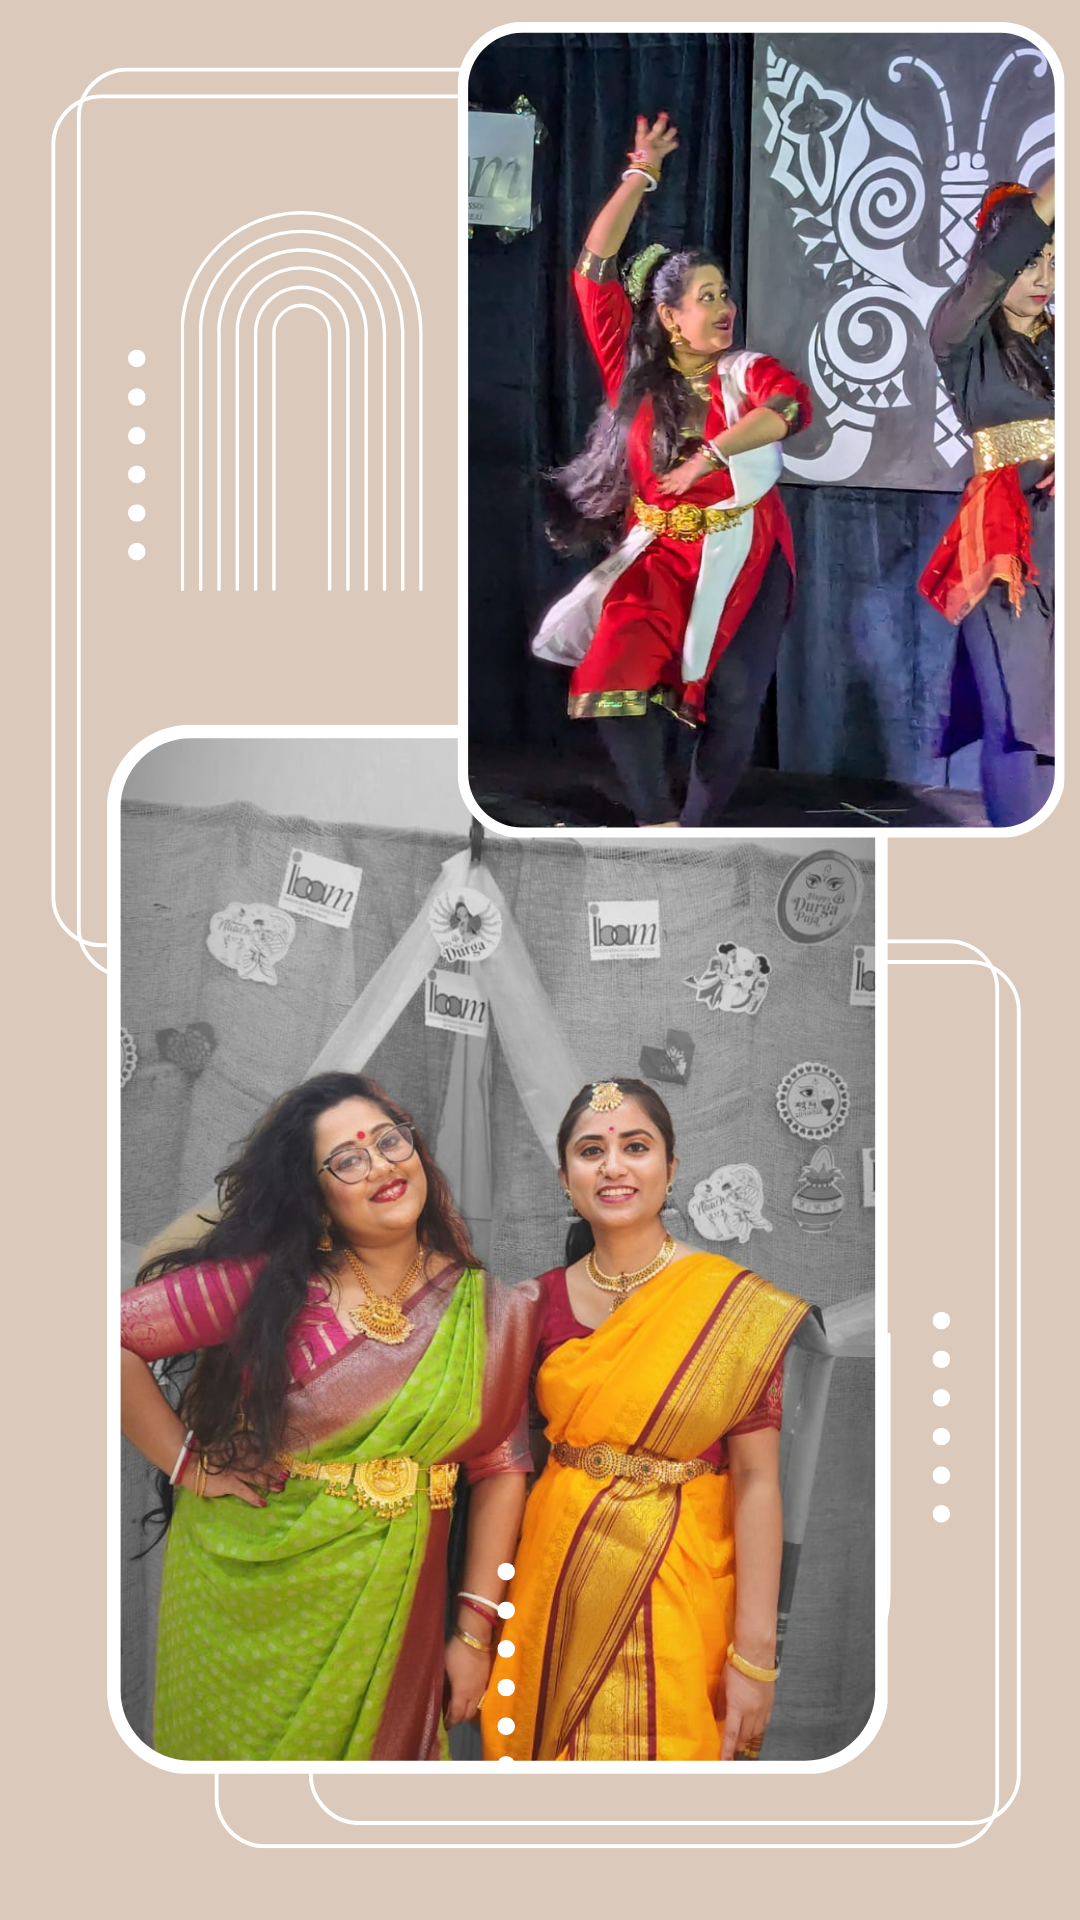
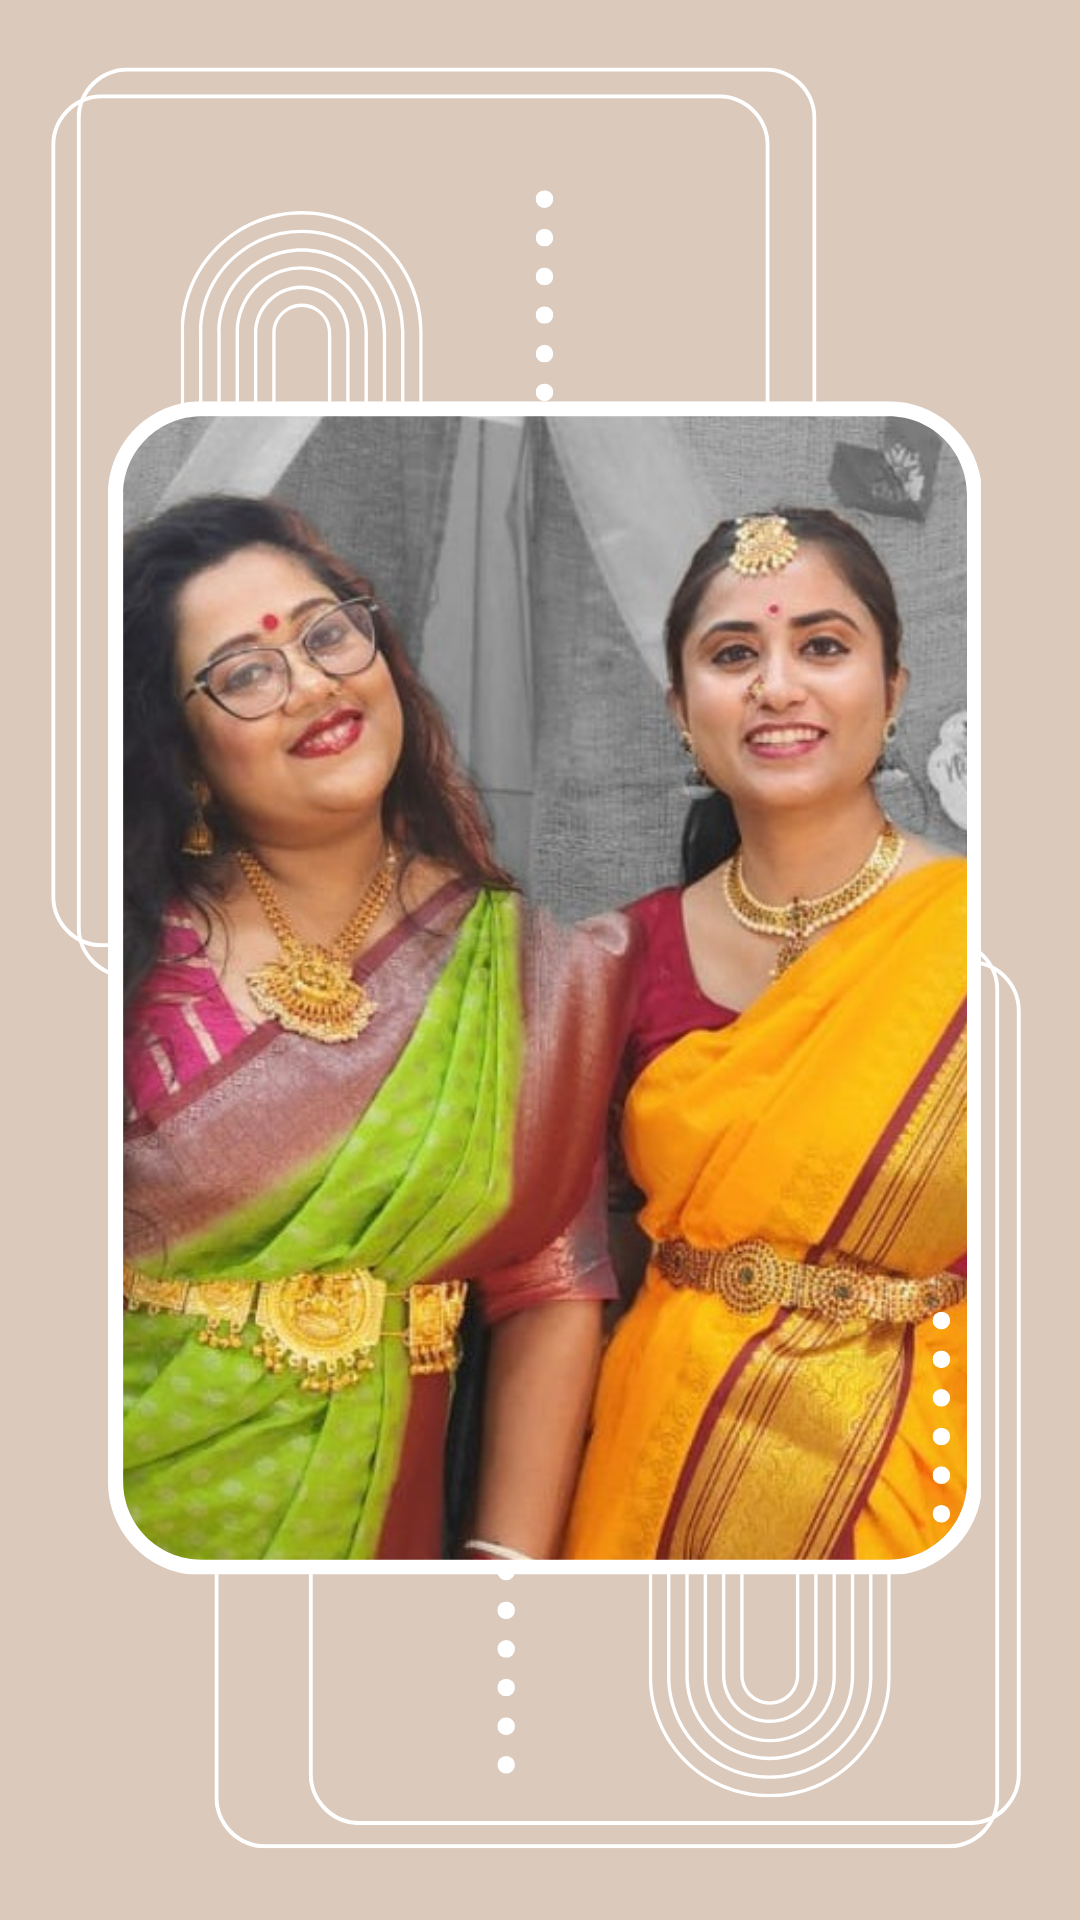
ok

diff --git a/src/views/BangladeshDayParadeView.vue b/src/views/BangladeshDayParadeView.vue
@@ -151,56 +151,61 @@
     </div>
 
     <!-- About the Event Section -->
-    <section
-      class="min-h-screen flex flex-col justify-center items-center bg-white py-16 px-4"
-    >
-      <div class="text-center max-w-6xl">
-        <h2
-          class="text-4xl md:text-6xl text-autumn-auburn font-cormorant"
-        >
-          About the Event
-        </h2>
-
-        <p
-          class="text-gray-600 mt-4 mb-16 md:mb-24 max-w-4xl mx-auto leading-7"
-        >
-          Bangladesh Day Parade is a vibrant community celebration of
-          Bangladeshi culture, tradition and heritage. The event brings
-          together families, artists and community members for a day filled
-          with a colourful parade, cultural performances, music, dance,
-          children’s activities and shared celebration.
-        </p>
-      </div>
-
-      
-      <!-- Event Image -->
-      <div class="flex justify-center mt-10">
-        <div class="relative w-full max-w-5xl">
-
-          <!-- Decorative frame -->
-          <div
-            class="absolute -top-5 -left-5 w-full h-full rounded-3xl border-4 border-yellow-500 border-opacity-75"
-          ></div>
-
-          <div
-            class="absolute -bottom-5 -right-5 w-full h-full rounded-3xl border-4 border-red-800 border-opacity-55"
-          ></div>
-
-          <img
-            src="@/assets/bangladeshDayParade/img2.jpeg"
-            alt="Bangladesh Day Parade"
-            class="relative rounded-3xl shadow-2xl w-full h-[550px] md:h-[700px] object-cover"
-          />
-        </div>
-      </div>
-    </section>
-
     
+<section
+  class="min-h-screen flex flex-col justify-center items-center bg-white py-16 px-4"
+>
+  <!-- Heading -->
+  <div class="text-center max-w-5xl">
+    <h2
+      class="text-4xl md:text-6xl text-autumn-auburn font-cormorant"
+    >
+      About the Event
+    </h2>
+      <div class="grid lg:grid-cols-2 gap-6 lg:gap-2 items-center mt-12 lg:mt-20 mb-12">
 
-<!-- Association Performance -->
-<!-- Association Performance -->
-<section class="bg-amber-50 py-20">
-  <div class="max-w-5xl mx-auto px-4 sm:px-6 lg:px-8">
+        <!-- Image -->
+  <div class="flex justify-center">
+    <div class="relative w-full max-w-sm">
+
+      <!-- Decorative Border -->
+      <div
+        class="absolute -top-3 -left-3 w-full h-full rounded-3xl border-4 border-yellow-500/60"
+      ></div>
+
+      <div
+        class="absolute -bottom-3 -right-3 w-full h-full rounded-3xl border-4 border-red-800/40"
+      ></div>
+
+      <img
+        src="@/assets/bangladeshDayParade/img2.jpeg"
+        alt="Bangladesh Day Parade"
+        class="relative rounded-3xl shadow-xl w-full h-auto object-contain"
+      />
+    </div>
+  </div>
+
+  <!-- Description -->
+  <div
+  class="text-left border-l-4 border-amber-200 pl-6"
+>
+  <p
+    class="text-gray-600 leading-7"
+  >
+    Bangladesh Day Parade is a vibrant community celebration of
+    Bangladeshi culture, tradition and heritage. The event brings
+    together families, artists and community members for a day filled
+    with a colourful parade, cultural performances, music, dance,
+    children’s activities and shared celebration.
+  </p>
+</div>
+
+</div>
+
+  </div>
+
+  <!-- Participation Card -->
+  <div class="max-w-5xl w-full mx-auto px-4 sm:px-6 lg:px-8 mt-12">
 
     <div
       class="bg-white rounded-3xl shadow-xl border border-amber-200 p-8 md:p-12 text-center"
@@ -221,8 +226,9 @@
       </h2>
 
       <!-- Description -->
+       
       <p
-        class="text-lg text-gray-700 leading-8 max-w-3xl mx-auto mb-8"
+        class="text-lg text-gray-700 leading-8 max-w-3xl mx-auto mb-10"
       >
         We are delighted to announce that our association will proudly
         participate in the Bangladesh Day Parade through a special
@@ -232,79 +238,101 @@
         celebrating the rich cultural heritage of Bangladesh.
       </p>
 
-      <!-- Highlight -->
-<section class="py-20">
-    <div
+      <!-- Performance Card -->
+      <div
         class="relative overflow-hidden bg-gradient-to-r from-amber-100 to-yellow-50 rounded-3xl border border-amber-200 shadow-xl"
-    >
+      >
 
         <!-- Background Portrait -->
         <img
-            src="@/assets/bangladeshDayParade/img5.png"
-            alt=""
-            class="absolute right-0 top-1/2 -translate-y-1/2 h-[90%] opacity-5 pointer-events-none select-none"
+          src="@/assets/bangladeshDayParade/img5.png"
+          alt=""
+          class="absolute right-0 top-1/2 -translate-y-1/2 h-[90%] opacity-5 pointer-events-none select-none"
         />
 
         <div class="grid lg:grid-cols-2 items-center">
 
-            <!-- LEFT IMAGE -->
-            <div>
-                <img
-                    src="@/assets/bangladeshDayParade/img4.png"
-                    class="w-full h-full object-cover"
-                />
+          <!-- LEFT IMAGE -->
+          <div>
+            <img
+              src="@/assets/bangladeshDayParade/img4.png"
+              class="w-full h-full object-cover"
+            />
+          </div>
+
+          <!-- RIGHT CONTENT -->
+          <div class="relative z-10 p-10 lg:p-14">
+
+            <div class="text-5xl mb-6">
+              💃
             </div>
 
-            <!-- RIGHT CONTENT -->
-            <div class="relative z-10 p-10 lg:p-14">
+            <h3
+              class="text-3xl lg:text-4xl font-cormorant text-amber-900 mb-5"
+            >
+              Duet Dance Performance
+            </h3>
 
-                <div class="text-5xl mb-6">
-                    💃
-                </div>
+            <p class="text-gray-700 leading-8">
+              As part of the cultural programme, our association is proud
+              to present a
+              <span class="font-semibold text-amber-800">
+                duet dance performance
+              </span>
+              by
+              <span class="font-semibold text-rose-700">
+                Soumie Mukhopadhyay
+              </span>
+              and
+              <span class="font-semibold text-rose-700">
+                Arpita Adikary
+              </span>,
+              beautifully choreographed to the timeless song
+              <span class="font-semibold text-emerald-700">
+                "Shyamo Sudor Giridhari"
+              </span>
+              by
+              <span class="font-semibold text-amber-700">
+                Poet Kazi Nazrul Islam
+              </span>,
+              celebrating the richness of Bengali music, culture and artistic
+              expression.
+            </p>
 
-                <h3
-                    class="text-3xl lg:text-4xl font-cormorant text-amber-900 mb-5"
-                >
-                    Duet Dance Performance
-                </h3>
-
-                <p class="text-gray-700 leading-8">
-                    As part of the cultural programme, our association is proud
-                    to present a
-                    <span class="font-semibold text-amber-800">
-                        duet dance performance
-                    </span>
-                    by
-                    <span class="font-semibold text-rose-700">
-                        Soumie Mukhopadhyay
-                    </span>
-                    and
-                    <span class="font-semibold text-rose-700">
-                        Arpita Adikary
-                    </span>,
-                    beautifully choreographed to the timeless song
-                    <span class="font-semibold text-emerald-700">
-                        "Shyamo Sudor Giridhari"
-                    </span>
-                    by
-                    <span class="font-semibold text-amber-700">
-                        National Poet Kazi Nazrul Islam
-                    </span>,
-                    celebrating the richness of Bengali music, culture, and
-                    artistic expression.
-                </p>
-
-            </div>
+          </div>
 
         </div>
 
-    </div>
-</section>
+      </div>
 
     </div>
 
   </div>
+
+  <!-- Event Image -->
+  <!--
+  <div class="flex justify-center mt-10">
+    <div class="relative w-full max-w-5xl">
+
+      <div
+        class="absolute -top-5 -left-5 w-full h-full rounded-3xl border-4 border-yellow-500 border-opacity-75"
+      ></div>
+
+      <div
+        class="absolute -bottom-5 -right-5 w-full h-full rounded-3xl border-4 border-red-800 border-opacity-55"
+      ></div>
+
+      <img
+        src="@/assets/bangladeshDayParade/img2.jpeg"
+        alt="Bangladesh Day Parade"
+        class="relative rounded-3xl shadow-2xl w-full h-[550px] md:h-[700px] object-cover"
+      />
+    </div>
+  </div>
+  -->
+
 </section>
+
 
     <!-- Event Details Section -->
     <section
